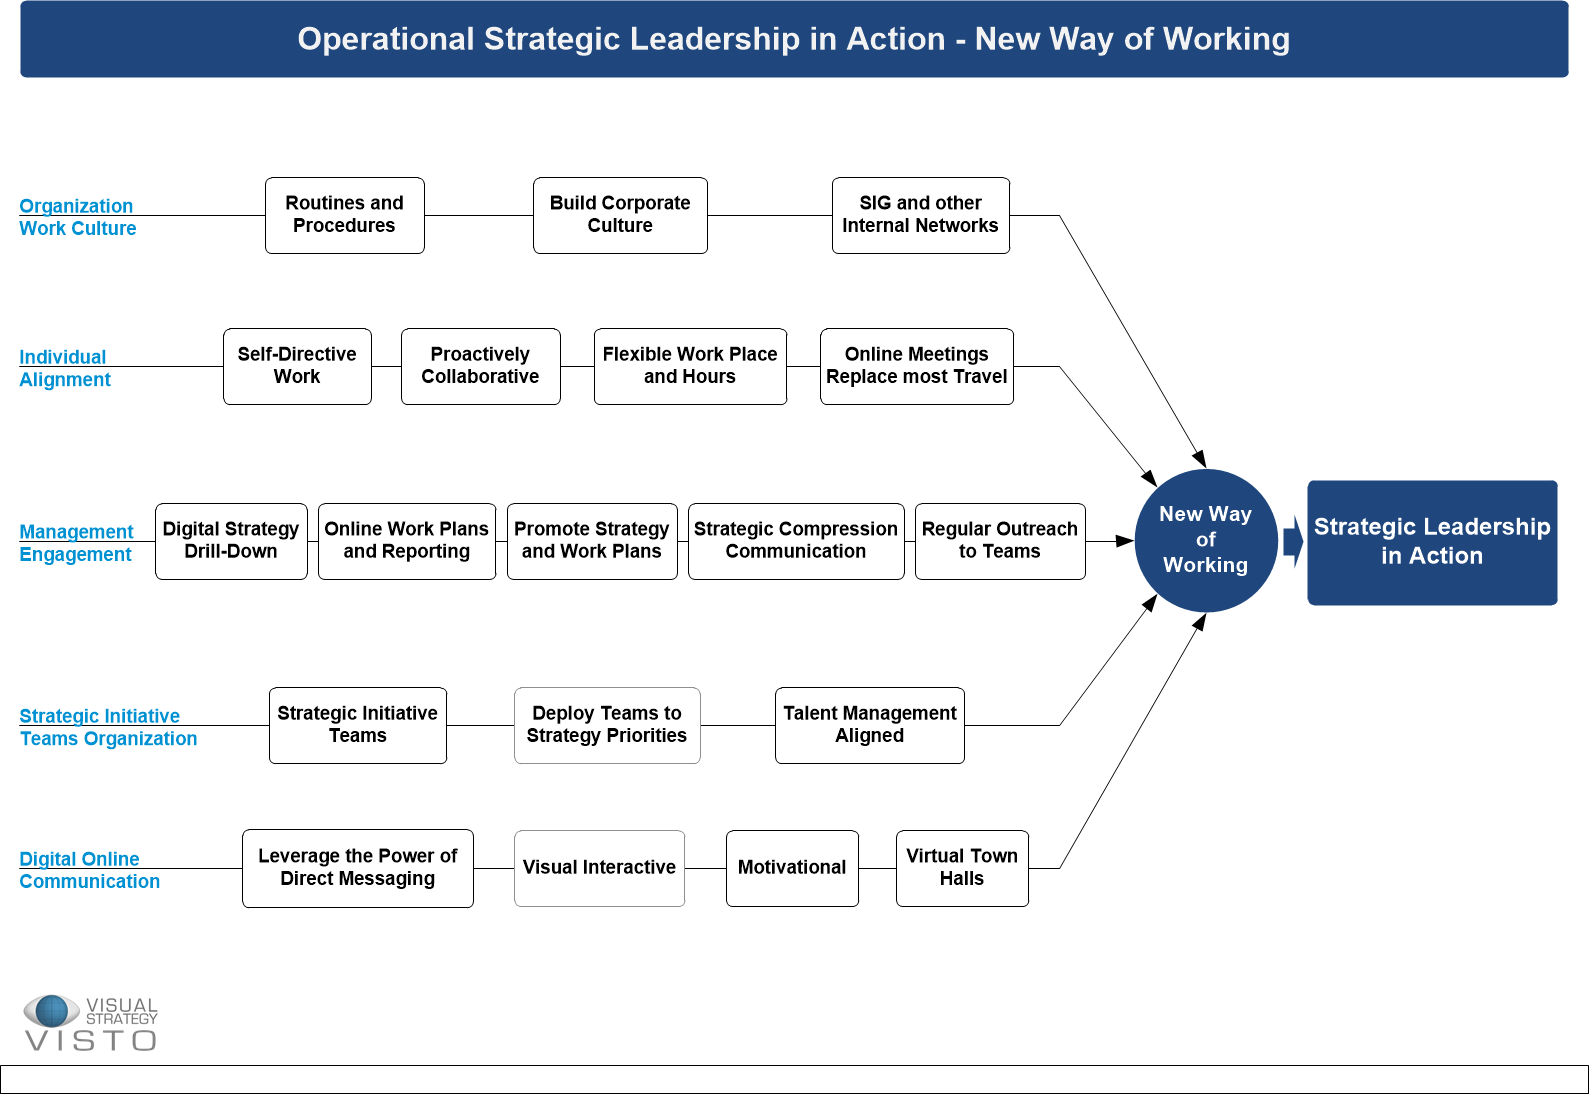
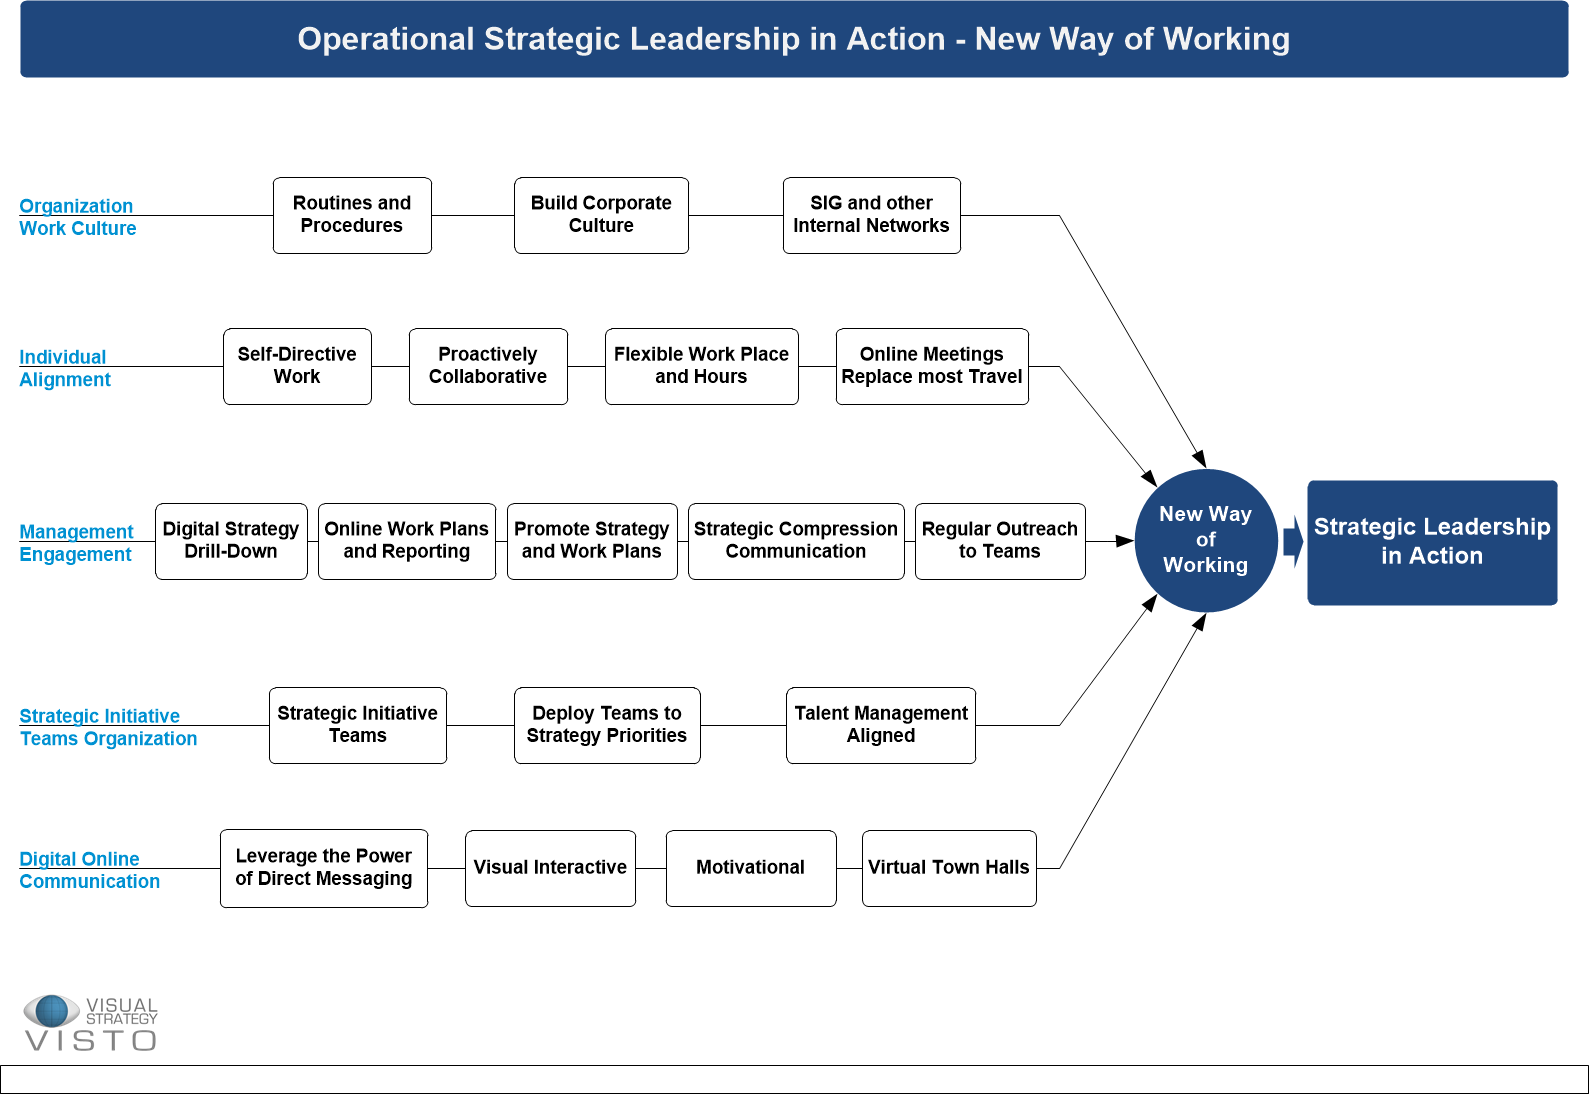
Update

diff --git a/NewWayOfWorking.html b/NewWayOfWorking.html
@@ -16,7 +16,7 @@
     
     <link href="vp/vp-style-1.2.12.min.css" rel="stylesheet" />
     <script>
-        window.svgpublish = {"shapes":{"shape49":{"ShapeId":"shape49","ConnectedTo":["shape49","shape8"],"ConnectedFrom":["shape49"],"Layers":[],"Text":"Management \nEngagement","IsContainer":false},"shape18":{"ShapeId":"shape18","ConnectedTo":["shape8","shape18"],"ConnectedFrom":["shape18"],"Layers":[],"Text":"Digital Online \nCommunication","IsContainer":false},"shape15":{"ShapeId":"shape15","ConnectedTo":["shape8","shape15"],"ConnectedFrom":["shape15"],"Layers":[],"Text":"Strategic Initiative \nTeams Organization","IsContainer":false},"shape13":{"ShapeId":"shape13","ConnectedTo":["shape8","shape13"],"ConnectedFrom":["shape13"],"Layers":[],"Text":"Organization \nWork Culture","IsContainer":false},"shape10":{"ShapeId":"shape10","ConnectedTo":["shape8","shape10"],"ConnectedFrom":["shape10"],"Layers":[],"Text":"Individual \nAlignment","IsContainer":false},"shape2":{"ShapeId":"shape2","DefaultLink":1,"Links":[{"PageId":-1,"Address":"https://www.visualstrategy.se/","Description":""}],"Layers":[],"Text":"","IsContainer":false},"shape4":{"ShapeId":"shape4","Layers":[],"Text":"Operational Strategic Leadership in Action - New Way of Working ","IsContainer":false},"shape6":{"ShapeId":"shape6","Props":{"":"0.0000"},"Comment":"The unique Position to be in","Layers":[],"Text":"Strategic Leadership in Action","IsContainer":false},"shape8":{"ShapeId":"shape8","Props":{"":"0.0000"},"ConnectedFrom":["shape10","shape13","shape15","shape18","shape49"],"Comment":"The main Plan focus","Layers":[],"Text":"New Way \nof \nWorking","IsContainer":false},"shape9":{"ShapeId":"shape9","Layers":[2],"Text":"","IsContainer":false},"shape11":{"ShapeId":"shape11","Layers":[3],"Text":"","IsContainer":false},"shape12":{"ShapeId":"shape12","Props":{"":"0.0000"},"Comment":"1. Self-motivating node in a network\r\n2. Synchronize work schedule with other nodes and strategic team members","Layers":[],"Text":"Self-Directive Work","IsContainer":false},"shape14":{"ShapeId":"shape14","Layers":[3],"Text":"","IsContainer":false},"shape16":{"ShapeId":"shape16","Layers":[3],"Text":"","IsContainer":false},"shape19":{"ShapeId":"shape19","Layers":[],"Text":"Visual Interactive","IsContainer":false},"shape20":{"ShapeId":"shape20","Props":{"":"0.0000"},"Comment":"Proactively document \"our\" corporate culture;\r\n1. Define\r\n2. Document corporate culture\r\n3. Communicate\r\n4. Promote","Layers":[],"Text":"Build Corporate Culture ","IsContainer":false},"shape27":{"ShapeId":"shape27","Props":{"":"0.0000"},"Comment":"1. Plan focus not task focus\r\n2. Actions and Tasks are logically derived from a Plan priority\r\n3. Actions are followed up and status is reported online in the Digital Plan","Layers":[],"Text":"Online Work Plans and Reporting","IsContainer":false},"shape29":{"ShapeId":"shape29","Props":{"":"0.0000"},"Comment":"SIG (Special Interest Groups) to promote:\r\n1. Building internal networks.\r\n2. Focus areas; functional, technical, special interest, et cetera","Layers":[],"Text":"SIG and other Internal Networks","IsContainer":false},"shape30":{"ShapeId":"shape30","Layers":[],"Text":"Deploy Teams to Strategy Priorities","IsContainer":false},"shape32":{"ShapeId":"shape32","Layers":[3],"Text":"","IsContainer":false},"shape34":{"ShapeId":"shape34","Props":{"":"0.0000"},"Comment":"Strategic Initiative Teams. We have a problem/opportunity and we identify the most knowledgeable people who can address the problem/opportunity. The people we have identified constitutes the strategic initiative team.","Layers":[],"Text":"Strategic Initiative Teams","IsContainer":false},"shape35":{"ShapeId":"shape35","Props":{"":"0.0000"},"Layers":[],"Text":"Flexible Work Place and Hours","IsContainer":false},"shape37":{"ShapeId":"shape37","Layers":[],"Text":"Online Meetings Replace most Travel","IsContainer":false},"shape39":{"ShapeId":"shape39","Props":{"":"0.0000"},"Comment":"1. Talent mgmt. aligned to the New Way of Working  \r\n2.  Annual individual performance and development objectives aligned to company strategic objectives\r\n3.  Align HR Procedures to Strategic Teamwork\r\n4. Skill and experience building","Layers":[],"Text":"Talent Management Aligned","IsContainer":false},"shape40":{"ShapeId":"shape40","Layers":[],"Text":"Virtual Town Halls ","IsContainer":false},"shape41":{"ShapeId":"shape41","Layers":[],"Text":"Motivational ","IsContainer":false},"shape50":{"ShapeId":"shape50","Layers":[3],"Text":"","IsContainer":false},"shape51":{"ShapeId":"shape51","Props":{"":"0.0000"},"Comment":"1. Management to motivate and promote online strategy\r\n2. Delegate responsibility for communication and execution","Layers":[],"Text":"Promote Strategy and Work Plans","IsContainer":false},"shape53":{"ShapeId":"shape53","Props":{"":"0.0000"},"Comment":"Routines and Procedures are adjusted and aligned to allow remote working conditions","Layers":[],"Text":"Routines and Procedures","IsContainer":false},"shape55":{"ShapeId":"shape55","Props":{"":"0.0000"},"Comment":"Define different groups as recipients of direct messaging from management. To achieve strategic compression of important communication.","Layers":[],"Text":"Leverage the Power of Direct Messaging ","IsContainer":false},"shape56":{"ShapeId":"shape56","Props":{"":"0.0000"},"Comment":"Direct and frequent communications to different large groups of employees communicating strategy, objectives, initiatives, progress and performance.","Layers":[],"Text":"Strategic Compression Communication","IsContainer":false},"shape57":{"ShapeId":"shape57","Props":{"":"0.0000"},"Comment":"Digital strategy structured to achieve company objectives","Layers":[],"Text":"Digital Strategy Drill-Down","IsContainer":false},"shape58":{"ShapeId":"shape58","Props":{"":"0.0000"},"Comment":"Quick and constructive feedback to team members to reinforce plan objectives, priorities and execution as well as individual contribution","Layers":[],"Text":"Regular Outreach to Teams","IsContainer":false},"shape59":{"ShapeId":"shape59","Props":{"":"0.0000"},"Comment":"Sharing information\r\n1. Quick response and turn-around on questions\r\n2. Proactive notification of identified issues\r\n3. Team player","Layers":[],"Text":"Proactively Collaborative","IsContainer":false},"shape61":{"ShapeId":"shape61","Layers":[],"Text":"","IsContainer":false}},"pages":[{"Name":"Operational Strategy under Constrained Circumstances -1","Id":0,"FileName":"NewWayOfWorking.html"}],"currentPage":{"Name":"Operational Strategy under Constrained Circumstances -1","Id":0,"FileName":"NewWayOfWorking.html"},"layers":[{"Name":"invisible","Index":1,"Visible":false},{"Name":"Flowchart","Index":2,"Visible":true},{"Name":"Connector","Index":3,"Visible":true}],"enableProps":true,"twoFingersTouch":false,"enableLinks":true,"enablePages":true,"enablePageLookup":false,"enableZoomCtrl":false,"enableZoomShift":false,"enableSearch":false,"enableMultiPageSearch":false,"enableSidebar":false,"enableTooltips":true,"enableSelection":true,"enableLayers":false,"enableFollowHyperlinks":true,"openHyperlinksInNewWindow":true,"transformVisioFileLinks":false,"keepRelativeLinks":false,"rightSidebar":false,"alwaysHideSidebar":false,"enableSidbarTitle":false,"enableSidebarHtml":false,"enableTooltipHtml":false,"enableD3":false,"tooltipPlacement":"","popoverPlacement":"","enablePopovers":false,"enablePopoverHtml":false,"tooltipTrigger":"","tooltipOutsideClick":false,"tooltipKeepOnHover":false,"tooltipTimeout":false,"tooltipTimeoutShow":"","tooltipTimeoutHide":"","popoverTrigger":"","popoverTimeout":false,"popoverOutsideClick":false,"popoverKeepOnHover":false,"popoverTimeoutShow":"","popoverTimeoutHide":"","enableContainerTip":false,"enablePropertySearch":false,"viewBox":"0 0 1190.55 841.89"}
+        window.svgpublish = {"shapes":{"shape49":{"ShapeId":"shape49","ConnectedTo":["shape49","shape8"],"ConnectedFrom":["shape49"],"Layers":[],"Text":"Management \nEngagement","IsContainer":false},"shape18":{"ShapeId":"shape18","ConnectedTo":["shape18","shape8"],"ConnectedFrom":["shape18"],"Layers":[],"Text":"Digital Online \nCommunication","IsContainer":false},"shape15":{"ShapeId":"shape15","ConnectedTo":["shape8","shape15"],"ConnectedFrom":["shape15"],"Layers":[],"Text":"Strategic Initiative \nTeams Organization","IsContainer":false},"shape13":{"ShapeId":"shape13","ConnectedTo":["shape8","shape13"],"ConnectedFrom":["shape13"],"Layers":[],"Text":"Organization \nWork Culture","IsContainer":false},"shape10":{"ShapeId":"shape10","ConnectedTo":["shape8","shape10"],"ConnectedFrom":["shape10"],"Layers":[],"Text":"Individual \nAlignment","IsContainer":false},"shape2":{"ShapeId":"shape2","DefaultLink":1,"Links":[{"PageId":-1,"Address":"https://www.visualstrategy.se/","Description":""}],"Layers":[],"Text":"","IsContainer":false},"shape4":{"ShapeId":"shape4","Layers":[],"Text":"Operational Strategic Leadership in Action - New Way of Working ","IsContainer":false},"shape6":{"ShapeId":"shape6","Props":{"":"0.0000"},"Comment":"The unique Position to be in","Layers":[],"Text":"Strategic Leadership in Action","IsContainer":false},"shape8":{"ShapeId":"shape8","Props":{"":"0.0000"},"ConnectedFrom":["shape10","shape13","shape15","shape18","shape49"],"Comment":"The main Plan focus","Layers":[],"Text":"New Way \nof \nWorking","IsContainer":false},"shape9":{"ShapeId":"shape9","Layers":[2],"Text":"","IsContainer":false},"shape11":{"ShapeId":"shape11","Layers":[3],"Text":"","IsContainer":false},"shape12":{"ShapeId":"shape12","Props":{"":"0.0000"},"Comment":"1. Self-motivating node in a network\r\n2. Synchronize work schedule with other nodes and strategic team members","Layers":[],"Text":"Self-Directive Work","IsContainer":false},"shape14":{"ShapeId":"shape14","Layers":[3],"Text":"","IsContainer":false},"shape16":{"ShapeId":"shape16","Layers":[3],"Text":"","IsContainer":false},"shape19":{"ShapeId":"shape19","Layers":[],"Text":"Visual Interactive","IsContainer":false},"shape20":{"ShapeId":"shape20","Props":{"":"0.0000"},"Comment":"Proactively document \"our\" corporate culture;\r\n1. Define\r\n2. Document corporate culture\r\n3. Communicate\r\n4. Promote","Layers":[],"Text":"Build Corporate Culture ","IsContainer":false},"shape27":{"ShapeId":"shape27","Props":{"":"0.0000"},"Comment":"1. Plan focus not task focus\r\n2. Actions and Tasks are logically derived from a Plan priority\r\n3. Actions are followed up and status is reported online in the Digital Plan","Layers":[],"Text":"Online Work Plans and Reporting","IsContainer":false},"shape29":{"ShapeId":"shape29","Props":{"":"0.0000"},"Comment":"SIG (Special Interest Groups) to promote:\r\n1. Building internal networks.\r\n2. Focus areas; functional, technical, special interest, et cetera","Layers":[],"Text":"SIG and other Internal Networks","IsContainer":false},"shape30":{"ShapeId":"shape30","Layers":[],"Text":"Deploy Teams to Strategy Priorities","IsContainer":false},"shape32":{"ShapeId":"shape32","Layers":[3],"Text":"","IsContainer":false},"shape34":{"ShapeId":"shape34","Props":{"":"0.0000"},"Comment":"Strategic Initiative Teams. We have a problem/opportunity and we identify the most knowledgeable people who can address the problem/opportunity. The people we have identified constitutes the strategic initiative team.","Layers":[],"Text":"Strategic Initiative Teams","IsContainer":false},"shape35":{"ShapeId":"shape35","Props":{"":"0.0000"},"Layers":[],"Text":"Flexible Work Place and Hours","IsContainer":false},"shape37":{"ShapeId":"shape37","Layers":[],"Text":"Online Meetings Replace most Travel","IsContainer":false},"shape39":{"ShapeId":"shape39","Props":{"":"0.0000"},"Comment":"1. Talent mgmt. aligned to the New Way of Working  \r\n2.  Annual individual performance and development objectives aligned to company strategic objectives\r\n3.  Align HR Procedures to Strategic Teamwork\r\n4. Skill and experience building","Layers":[],"Text":"Talent Management Aligned","IsContainer":false},"shape40":{"ShapeId":"shape40","Layers":[],"Text":"Virtual Town Halls ","IsContainer":false},"shape41":{"ShapeId":"shape41","Layers":[],"Text":"Motivational ","IsContainer":false},"shape50":{"ShapeId":"shape50","Layers":[3],"Text":"","IsContainer":false},"shape51":{"ShapeId":"shape51","Props":{"":"0.0000"},"Comment":"1. Management to motivate and promote online strategy\r\n2. Delegate responsibility for communication and execution","Layers":[],"Text":"Promote Strategy and Work Plans","IsContainer":false},"shape53":{"ShapeId":"shape53","Props":{"":"0.0000"},"Comment":"Routines and Procedures are adjusted and aligned to allow remote working conditions","Layers":[],"Text":"Routines and Procedures","IsContainer":false},"shape55":{"ShapeId":"shape55","Props":{"":"0.0000"},"Comment":"Define different groups as recipients of direct messaging from management. To achieve strategic compression of important communication.","Layers":[],"Text":"Leverage the Power of Direct Messaging ","IsContainer":false},"shape56":{"ShapeId":"shape56","Props":{"":"0.0000"},"Comment":"Direct and frequent communications to different large groups of employees communicating strategy, objectives, initiatives, progress and performance.","Layers":[],"Text":"Strategic Compression Communication","IsContainer":false},"shape57":{"ShapeId":"shape57","Props":{"":"0.0000"},"Comment":"Digital strategy structured to achieve company objectives","Layers":[],"Text":"Digital Strategy Drill-Down","IsContainer":false},"shape58":{"ShapeId":"shape58","Props":{"":"0.0000"},"Comment":"Quick and constructive feedback to team members to reinforce plan objectives, priorities and execution as well as individual contribution","Layers":[],"Text":"Regular Outreach to Teams","IsContainer":false},"shape59":{"ShapeId":"shape59","Props":{"":"0.0000"},"Comment":"Sharing information\r\n1. Quick response and turn-around on questions\r\n2. Proactive notification of identified issues\r\n3. Team player","Layers":[],"Text":"Proactively Collaborative","IsContainer":false},"shape61":{"ShapeId":"shape61","Layers":[],"Text":"","IsContainer":false}},"pages":[{"Name":"Operational Strategy under Constrained Circumstances -1","Id":0,"FileName":"NewWayOfWorking.html"}],"currentPage":{"Name":"Operational Strategy under Constrained Circumstances -1","Id":0,"FileName":"NewWayOfWorking.html"},"layers":[{"Name":"invisible","Index":1,"Visible":false},{"Name":"Flowchart","Index":2,"Visible":true},{"Name":"Connector","Index":3,"Visible":true}],"enableProps":true,"twoFingersTouch":false,"enableLinks":true,"enablePages":true,"enablePageLookup":false,"enableZoomCtrl":false,"enableZoomShift":false,"enableSearch":false,"enableMultiPageSearch":false,"enableSidebar":false,"enableTooltips":true,"enableSelection":true,"enableLayers":false,"enableFollowHyperlinks":true,"openHyperlinksInNewWindow":true,"transformVisioFileLinks":false,"keepRelativeLinks":false,"rightSidebar":false,"alwaysHideSidebar":false,"enableSidbarTitle":false,"enableSidebarHtml":false,"enableTooltipHtml":false,"enableD3":false,"tooltipPlacement":"","popoverPlacement":"","enablePopovers":false,"enablePopoverHtml":false,"tooltipTrigger":"","tooltipOutsideClick":false,"tooltipKeepOnHover":false,"tooltipTimeout":false,"tooltipTimeoutShow":"","tooltipTimeoutHide":"","popoverTrigger":"","popoverTimeout":false,"popoverOutsideClick":false,"popoverKeepOnHover":false,"popoverTimeoutShow":"","popoverTimeoutHide":"","enableContainerTip":false,"enablePropertySearch":false,"viewBox":"0 0 1190.55 841.89"}
         $(document).ready(function () { $("div.svg").panzoom({ svg: $("div.svg > svg").get(0), viewBox: "0 0 1190.55 841.89" }).removeClass("appear"); });
     </script>
     <script src="vp/vp-script-1.2.12.min.js"></script>
@@ -28,7 +28,7 @@
     
     
     <div id="svg" class="svg appear">
-        <svg width="100%" height="100%" xml:space="preserve" color-interpolation-filters="sRGB" class="st14" xmlns="http://www.w3.org/2000/svg" xmlns:xlink="http://www.w3.org/1999/xlink" xmlns:ev="http://www.w3.org/2001/xml-events">
+        <svg width="100%" height="100%" xml:space="preserve" color-interpolation-filters="sRGB" class="st13" xmlns="http://www.w3.org/2000/svg" xmlns:xlink="http://www.w3.org/1999/xlink" xmlns:ev="http://www.w3.org/2001/xml-events">
 	
 
 	<style type="text/css">
@@ -44,8 +44,7 @@
 	.st10 {fill:#000000;fill-opacity:1;stroke:#000000;stroke-opacity:1;stroke-width:0.15384615384615;}
 	.st11 {fill:#ffffff;stroke:#000000;stroke-linecap:round;stroke-linejoin:round;stroke-width:0.72;}
 	.st12 {fill:#000000;font-family:Arial;font-size:1.16666em;font-weight:bold;}
-	.st13 {fill:#ffffff;stroke:#8f8f8f;stroke-linecap:round;stroke-linejoin:round;stroke-width:0.72;}
-	.st14 {fill:none;fill-rule:evenodd;font-size:12px;overflow:hidden;stroke-linecap:square;stroke-miterlimit:3;}
+	.st13 {fill:none;fill-rule:evenodd;font-size:12px;overflow:hidden;stroke-linecap:square;stroke-miterlimit:3;}
 </style>
 
 	<defs id="Markers">
@@ -166,15 +165,15 @@
 			
 			<path d="M0 841.89 L109.55 841.89" class="st9" />
 		</g>
-		<g id="shape19" transform="translate(385.512,-147.917)" class="DP">
+		<g id="shape19" transform="translate(348.661,-147.917)" class="DP">
 			
 			<desc>Visual Interactive</desc>
 			
 			
 			
-			<rect x="0" y="785.197" width="127.559" height="56.6929" rx="4.5" ry="4.5" class="st13" />
+			<rect x="0" y="785.197" width="127.559" height="56.6929" rx="4.5" ry="4.5" class="st11" />
 			<text x="6.2" y="817.74" class="st12">Visual Interactive</text>		</g>
-		<g id="shape20" transform="translate(399.685,-637.795)" class="DP">
+		<g id="shape20" transform="translate(385.512,-637.795)" class="DP">
 			
 			<desc>Build Corporate Culture</desc>
 			
@@ -192,7 +191,7 @@
 			
 			<rect x="0" y="785.197" width="133.228" height="56.693" rx="4.5" ry="4.5" class="st11" />
 			<text x="4.77" y="809.34" class="st12">Online Work Plans <tspan x="19.17" dy="1.2em" class="st3">and Reporting</tspan></text>		</g>
-		<g id="shape29" transform="translate(623.622,-637.795)" class="DP">
+		<g id="shape29" transform="translate(586.772,-637.795)" class="DP">
 			
 			<desc>SIG and other Internal Networks</desc>
 			
@@ -207,7 +206,7 @@
 			
 			
 			
-			<rect x="0" y="785.197" width="138.898" height="56.693" rx="4.5" ry="4.5" class="st13" />
+			<rect x="0" y="785.197" width="138.898" height="56.693" rx="4.5" ry="4.5" class="st11" />
 			<text x="13.44" y="809.34" class="st12">Deploy Teams to <tspan x="9.15" dy="1.2em" class="st3">Strategy Priorities</tspan></text>		</g>
 		<g id="shape32" transform="translate(63.8824,245.932) rotate(-60.0982)" class="AngledConnector">
 			
@@ -223,7 +222,7 @@
 			
 			<rect x="0" y="785.197" width="133.228" height="56.6929" rx="4.5" ry="4.5" class="st11" />
 			<text x="6.32" y="809.34" class="st12">Strategic Initiative <tspan x="44.44" dy="1.2em" class="st3">Teams</tspan></text>		</g>
-		<g id="shape35" transform="translate(445.039,-524.409)" class="DP">
+		<g id="shape35" transform="translate(453.543,-524.409)" class="DP">
 			
 			<desc>Flexible Work Place and Hours</desc>
 			
@@ -232,7 +231,7 @@
 			
 			<rect x="0" y="785.197" width="144.567" height="56.6929" rx="4.5" ry="4.5" class="st11" />
 			<text x="6.54" y="809.34" class="st12">Flexible Work Place <tspan x="37.67" dy="1.2em" class="st3">and Hours</tspan></text>		</g>
-		<g id="shape37" transform="translate(615.118,-524.409)" class="DP">
+		<g id="shape37" transform="translate(626.457,-524.409)" class="DP">
 			
 			<desc>Online Meetings Replace most Travel</desc>
 			
@@ -240,7 +239,7 @@
 			
 			<rect x="0" y="785.197" width="144.567" height="56.6929" rx="4.5" ry="4.5" class="st11" />
 			<text x="18.22" y="809.34" class="st12">Online Meetings <tspan x="4.2" dy="1.2em" class="st3">Replace most Travel</tspan></text>		</g>
-		<g id="shape39" transform="translate(581.102,-255.118)" class="DP">
+		<g id="shape39" transform="translate(589.606,-255.118)" class="DP">
 			
 			<desc>Talent Management Aligned</desc>
 			
@@ -249,22 +248,22 @@
 			
 			<rect x="0" y="785.197" width="141.732" height="56.6929" rx="4.5" ry="4.5" class="st11" />
 			<text x="5.52" y="809.34" class="st12">Talent Management <tspan x="45.2" dy="1.2em" class="st3">Aligned</tspan></text>		</g>
-		<g id="shape40" transform="translate(671.811,-147.917)" class="DP">
+		<g id="shape40" transform="translate(646.299,-147.917)" class="DP">
 			
 			<desc>Virtual Town Halls</desc>
 			
 			
 			
-			<rect x="0" y="785.197" width="99.2126" height="56.6929" rx="4.5" ry="4.5" class="st11" />
-			<text x="7.61" y="809.34" class="st12">Virtual Town <tspan x="32.88" dy="1.2em" class="st3">Halls </tspan> </text>		</g>
-		<g id="shape41" transform="translate(544.252,-147.917)" class="DP">
+			<rect x="0" y="785.197" width="130.394" height="56.6929" rx="4.5" ry="4.5" class="st11" />
+			<text x="4.52" y="817.74" class="st12">Virtual Town Halls  </text>		</g>
+		<g id="shape41" transform="translate(498.898,-147.917)" class="DP">
 			
 			<desc>Motivational</desc>
 			
 			
 			
-			<rect x="0" y="785.197" width="99.2126" height="56.6929" rx="4.5" ry="4.5" class="st11" />
-			<text x="8.77" y="817.74" class="st12">Motivational  </text>		</g>
+			<rect x="0" y="785.197" width="127.559" height="56.6929" rx="4.5" ry="4.5" class="st11" />
+			<text x="22.95" y="817.74" class="st12">Motivational  </text>		</g>
 		<g id="shape50" transform="translate(801.205,-421.177) rotate(-1.94496)" class="AngledConnector">
 			
 			
@@ -279,7 +278,7 @@
 			
 			<rect x="0" y="785.197" width="127.559" height="56.6929" rx="4.5" ry="4.5" class="st11" />
 			<text x="5.43" y="809.34" class="st12">Promote Strategy <tspan x="11.27" dy="1.2em" class="st3">and Work Plans</tspan></text>		</g>
-		<g id="shape53" transform="translate(198.425,-637.795)" class="DP">
+		<g id="shape53" transform="translate(204.094,-637.795)" class="DP">
 			
 			<desc>Routines and Procedures</desc>
 			
@@ -288,15 +287,15 @@
 			
 			<rect x="0" y="785.197" width="119.055" height="56.6929" rx="4.5" ry="4.5" class="st11" />
 			<text x="15.19" y="809.34" class="st12">Routines and <tspan x="21.01" dy="1.2em" class="st3">Procedures</tspan></text>		</g>
-		<g id="shape55" transform="translate(181.417,-147.015)" class="DP">
+		<g id="shape55" transform="translate(164.409,-147.015)" class="DP">
 			
 			<desc>Leverage the Power of Direct Messaging</desc>
 			
 			
 			
 			
-			<rect x="0" y="783.393" width="172.913" height="58.4968" rx="4.5" ry="4.5" class="st11" />
-			<text x="11.77" y="808.44" class="st12">Leverage the Power of <tspan x="28.5" dy="1.2em" class="st3">Direct Messaging </tspan> </text>		</g>
+			<rect x="0" y="783.393" width="155.906" height="58.4968" rx="4.5" ry="4.5" class="st11" />
+			<text x="11.82" y="808.44" class="st12">Leverage the Power <tspan x="11.44" dy="1.2em" class="st3">of Direct Messaging </tspan> </text>		</g>
 		<g id="shape56" transform="translate(515.906,-393.316)" class="DP">
 			
 			<desc>Strategic Compression Communication</desc>
@@ -324,7 +323,7 @@
 			
 			<rect x="0" y="785.197" width="127.559" height="56.6929" rx="4.5" ry="4.5" class="st11" />
 			<text x="5.04" y="809.34" class="st12">Regular Outreach <tspan x="33.05" dy="1.2em" class="st3">to Teams</tspan></text>		</g>
-		<g id="shape59" transform="translate(300.472,-524.409)" class="DP">
+		<g id="shape59" transform="translate(306.142,-524.409)" class="DP">
 			
 			<desc>Proactively Collaborative</desc>
 			
